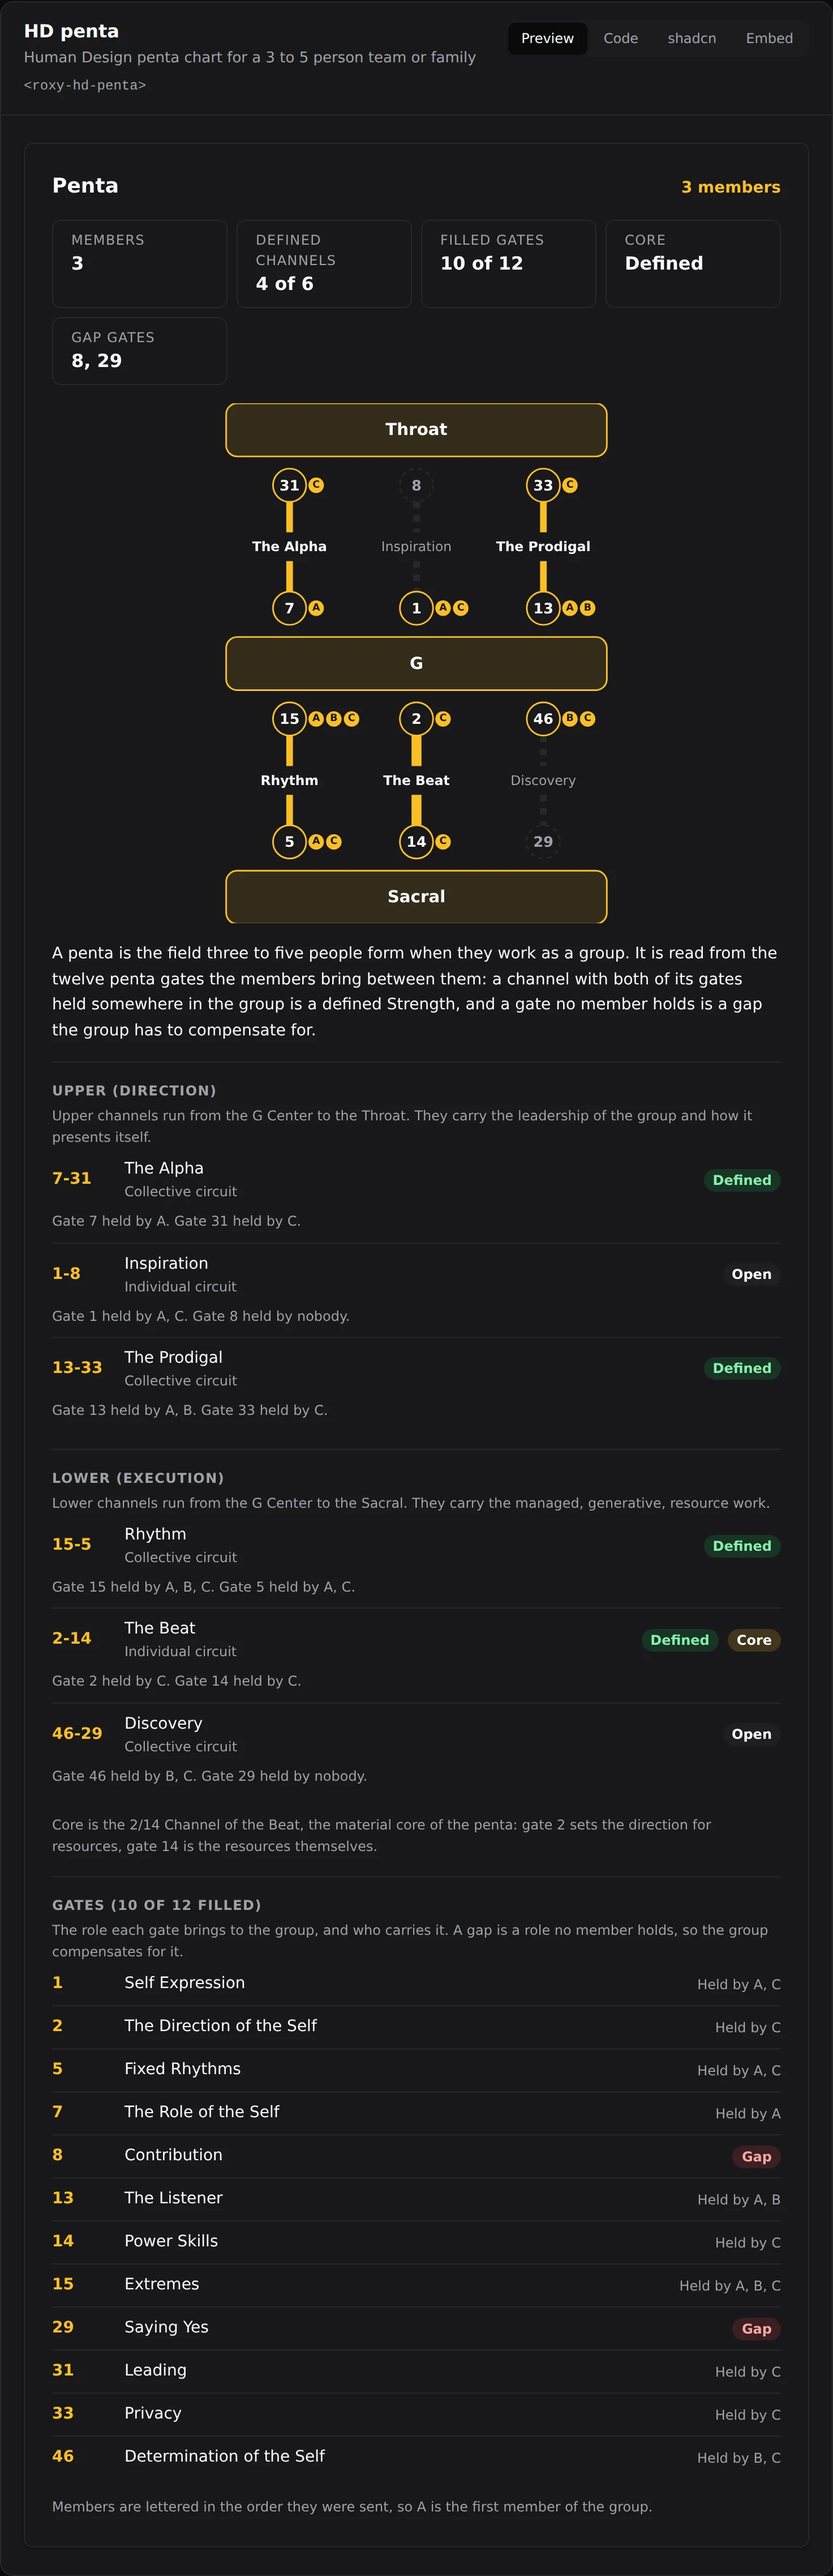
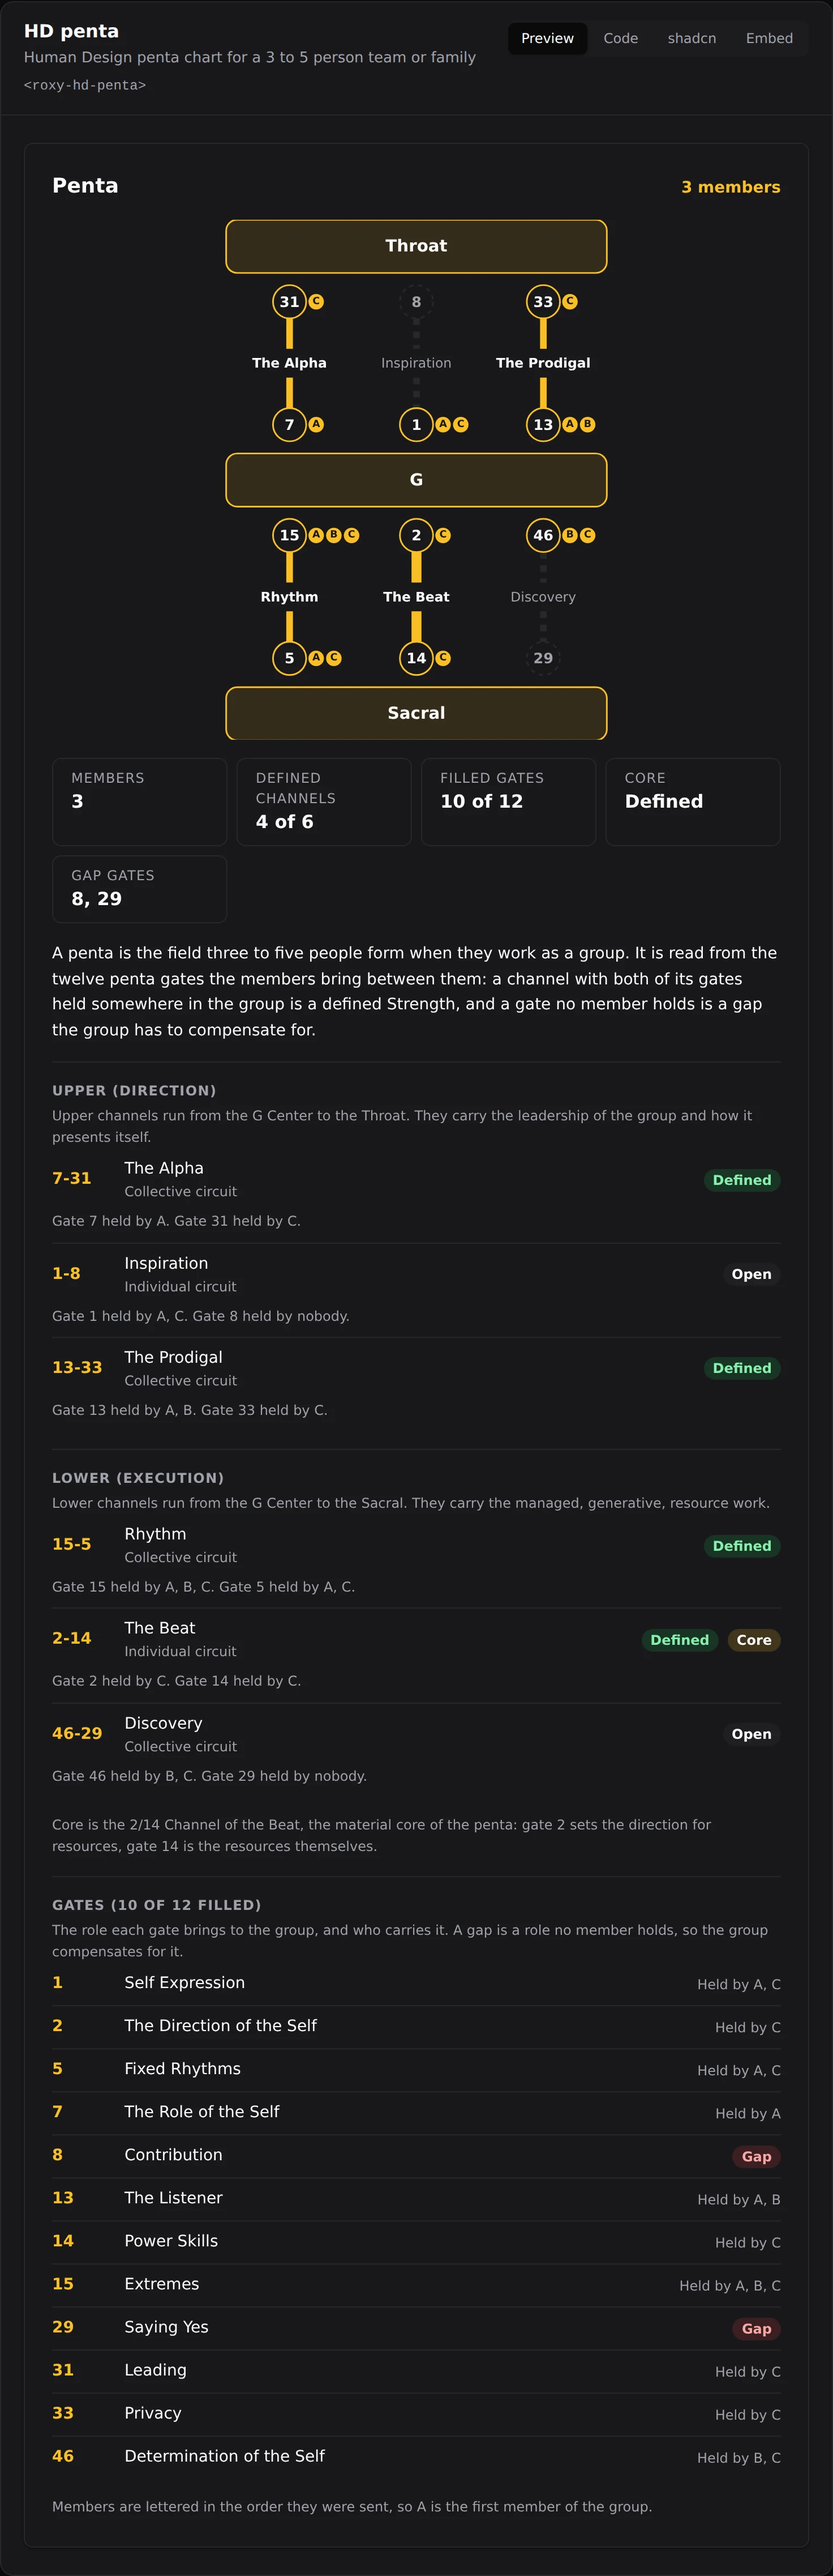
fix(hd-connection,hd-penta): lead these cards with their chart, and guard the order

Changed region(s): [[0.25, 0.0624, 0.8125, 0.3747], [0.75, 0.281, 0.8125, 0.3122], [0.0938, 0.1249, 0.1562, 0.1561]]

diff --git a/packages/ui/tests/components.test.ts b/packages/ui/tests/components.test.ts
@@ -1850,6 +1850,12 @@ describe('human design interpretations', () => {
 		el.remove();
 	});
 
+	test('the chart comes before the fact tiles', async () => {
+		const el = await mount('roxy-bodygraph', bodygraph);
+		expect(chartPrecedesFacts(el.shadowRoot as ShadowRoot)).toBe(true);
+		el.remove();
+	});
+
 	test('a circuit description is lifted to its group, never repeated per channel', async () => {
 		const el = await mount('roxy-bodygraph', bodygraph);
 		const text = el.shadowRoot?.textContent ?? '';
@@ -5177,6 +5183,20 @@ describe('roxy-reference-card folds a localized field into the field it translat
  * whether a channel reads as one person holding it outright or as the two of them
  * completing it together.
  */
+/**
+ * A card that owns a chart renders it before its fact tiles: a reader identifies
+ * these cards by the drawing, so the counts read as a summary of what is above
+ * rather than a preamble to it. Both anchors are published part names.
+ */
+function chartPrecedesFacts(root: ShadowRoot): boolean {
+	const chart = root.querySelector('[part~="chart"]');
+	const facts = root.querySelector('[part~="facts"]');
+	if (!chart || !facts) return false;
+	return Boolean(
+		chart.compareDocumentPosition(facts) & Node.DOCUMENT_POSITION_FOLLOWING,
+	);
+}
+
 describe('roxy-hd-connection draws the combined bodygraph', () => {
 	const CONNECTION = {
 		totalChannels: 3,
@@ -5258,6 +5278,12 @@ describe('roxy-hd-connection draws the combined bodygraph', () => {
 	test('draws every gate, not only the ones the two of them carry', async () => {
 		const el = await mount();
 		expect(chart(el).querySelectorAll('.bg-gate')).toHaveLength(64);
+		el.remove();
+	});
+
+	test('the chart comes before the fact tiles', async () => {
+		const el = await mount();
+		expect(chartPrecedesFacts(chart(el))).toBe(true);
 		el.remove();
 	});
 
@@ -5568,6 +5594,12 @@ describe('roxy-hd-penta draws the ladder', () => {
 		// Four of the six complete, two segments each.
 		expect(root.querySelectorAll('.pn-rung.on')).toHaveLength(8);
 		expect(root.querySelectorAll('.pn-rung.core')).toHaveLength(2);
+		el.remove();
+	});
+
+	test('the ladder comes before the fact tiles', async () => {
+		const el = await mount();
+		expect(chartPrecedesFacts(el.shadowRoot as ShadowRoot)).toBe(true);
 		el.remove();
 	});
 

diff --git a/scripts/component-previews.ts b/scripts/component-previews.ts
@@ -30,12 +30,12 @@ const THEMES = ['light', 'dark'] as const;
 const OVERRIDES: Record<string, { scale?: number; chartWidth?: string }> = {
 	// A bodygraph is half again taller than it is wide, so at full width these tiles
 	// frame only the crown. A thumbnail has to be recognisable at rail size rather
-	// than legible; the connection card sits lower because of its fact tiles.
-	// The natal chart is the lead example on every surface, so its tile should show
-	// the wheel rather than the header above it.
+	// than legible. The natal chart is the lead example on every surface, so its tile
+	// should show the wheel rather than the header above it.
 	'natal-chart': { chartWidth: '210px' },
 	bodygraph: { chartWidth: '200px' },
-	'hd-connection': { chartWidth: '165px' },
+	'hd-connection': { chartWidth: '200px' },
+	'hd-penta': { chartWidth: '175px' },
 	// Compact single-value cards read as lost in the stage at 1x; lift them so the
 	// render fills the frame and still bleeds off the bottom.
 	'moon-phase': { scale: 1.15 },

diff --git a/packages/ui/src/components/hd-penta.ts b/packages/ui/src/components/hd-penta.ts
@@ -271,6 +271,7 @@ export class RoxyHdPenta extends RoxyDataElement<Penta> {
 				<h2 class="title">Penta</h2>
 				${typeof d.memberCount === 'number' ? html`<span class="count">${d.memberCount} members</span>` : nothing}
 			</header>
+			${this.renderChart(d)}
 			${renderHdFacts([
 				{ label: 'Members', value: d.memberCount?.toString() },
 				{
@@ -301,7 +302,6 @@ export class RoxyHdPenta extends RoxyDataElement<Penta> {
 					value: gaps.length > 0 ? gaps.join(', ') : undefined,
 				},
 			])}
-			${this.renderChart(d)}
 			${
 				// The tiles above count the members, the defined channels, the filled
 				// gates and the gaps; this paragraph is what those counts mean.

diff --git a/packages/ui/src/components/hd-connection.ts b/packages/ui/src/components/hd-connection.ts
@@ -269,6 +269,7 @@ export class RoxyHdConnection extends RoxyDataElement<Connection> {
 				<h2 class="title">Connection</h2>
 				${typeof d.totalChannels === 'number' ? html`<span class="count">${d.totalChannels} channels</span>` : nothing}
 			</header>
+			${this.renderChart(d)}
 			${renderHdFacts([
 				{ label: 'Channels', value: d.totalChannels?.toString() },
 				{
@@ -285,7 +286,6 @@ export class RoxyHdConnection extends RoxyDataElement<Connection> {
 							: undefined,
 				},
 			])}
-			${this.renderChart(d)}
 			${
 				this.hideReadings
 					? nothing
